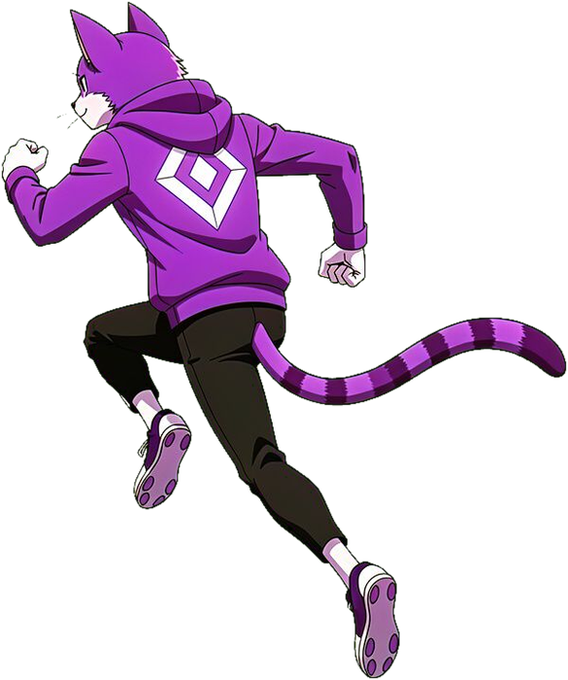
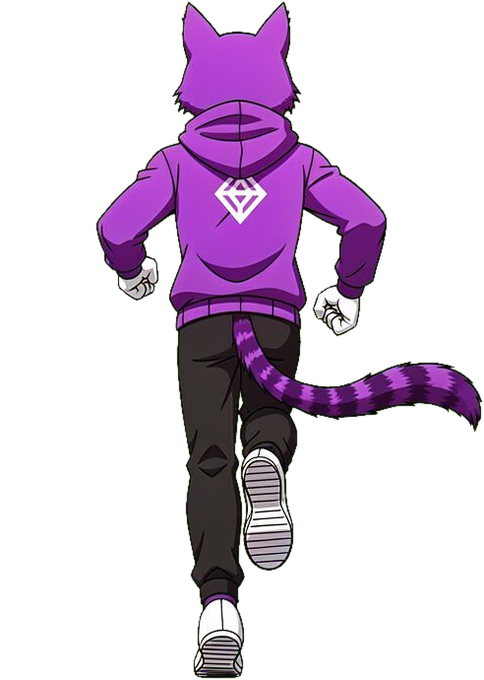
Monshi Run 3D: real 2-frame run cycle + straight-behind pose
Fixes "he's sliding / running sideways":
- New straight-from-behind running sprites (symmetric rear view) so the
  character runs directly away from the camera instead of drifting sideways
- Animated 2-frame run cycle (stride + mirrored opposite stride) swapped on a
  speed-scaled cadence, so the legs actually alternate instead of gliding
- Both characters (Monshi/Toshi) get both stride frames; reduced the body lean
  so he stays upright, banks only when switching lanes

Smoke-tested headless: legs alternate frame-to-frame, straight rear view,
no JS errors.

Claude-Session: https://claude.ai/code/session_014skJoMzzz4GsdHJ96MaCeE

diff --git a/monshi-run.html b/monshi-run.html
@@ -124,8 +124,8 @@ if(!window.THREE){startBestEl.textContent='3D engine failed to load — check co
 
 var LANES=[-2.3,0,2.3];
 var CHAR={
-  monshi:{sprite:'/public/monshi-run/monshi.png', prim:0xA855F7, glow:0xA855F7, boost:0xC084FC, boost2:0xEC4899, name:'MONSHI'},
-  toshi :{sprite:'/public/monshi-run/toshi.png',  prim:0x3B82F6, glow:0x3B82F6, boost:0x60A5FA, boost2:0x22D3EE, name:'TOSHI'}
+  monshi:{frames:['/public/monshi-run/monshi.png','/public/monshi-run/monshi_b.png'], prim:0xA855F7, glow:0xA855F7, boost:0xC084FC, boost2:0xEC4899, name:'MONSHI'},
+  toshi :{frames:['/public/monshi-run/toshi.png','/public/monshi-run/toshi_b.png'],   prim:0x3B82F6, glow:0x3B82F6, boost:0x60A5FA, boost2:0x22D3EE, name:'TOSHI'}
 };
 var SUPA='https://cuqhqcmrgpdjlhyqztnc.supabase.co', SKEY='sb_publishable_nu-E2mvgdQ0l1DsSsOswWA_ma2RbV4z';
 var $=function(id){return document.getElementById(id);};
@@ -155,8 +155,9 @@ var flameTex=softTex([[0,'#ffffff'],[.3,'#ffffffcc'],[.65,'#ffffff55'],[1,'#ffff
 var glowTex =softTex([[0,'#ffffff'],[.4,'#ffffffaa'],[1,'#ffffff00']]);
 var texLoader=new THREE.TextureLoader();
 var coinTex=texLoader.load('/public/monshi-run/monad-coin.png');
-var charTex={monshi:texLoader.load(CHAR.monshi.sprite), toshi:texLoader.load(CHAR.toshi.sprite)};
-charTex.monshi.anisotropy=charTex.toshi.anisotropy=4;
+var FRAMES={monshi:[],toshi:[]};
+['monshi','toshi'].forEach(function(ch){CHAR[ch].frames.forEach(function(src){var t=texLoader.load(src);t.anisotropy=4;FRAMES[ch].push(t);});});
+var curFrames=FRAMES.monshi, frameIdx=0;
 
 // ── world container (curve applies here) ──
 var world=new THREE.Group(); scene.add(world);
@@ -210,7 +211,7 @@ starGeo.setAttribute('position',new THREE.Float32BufferAttribute(sv,3));
 scene.add(new THREE.Points(starGeo,new THREE.PointsMaterial({color:0x9d6bff,size:.4,transparent:true,opacity:.7})));
 
 // ── player (back-view billboard) ──
-var player=new THREE.Sprite(new THREE.SpriteMaterial({map:charTex.monshi,transparent:true}));
+var player=new THREE.Sprite(new THREE.SpriteMaterial({map:FRAMES.monshi[0],transparent:true}));
 player.scale.set(2.2,2.2,1); player.position.set(0,1.45,3.2); scene.add(player);
 var shadow=new THREE.Mesh(new THREE.CircleGeometry(0.9,20),new THREE.MeshBasicMaterial({color:0x000000,transparent:true,opacity:.4}));
 shadow.rotation.x=-Math.PI/2; scene.add(shadow);
@@ -261,7 +262,7 @@ function applyTheme(){
   document.documentElement.style.setProperty('--prim','#'+theme.prim.toString(16).padStart(6,'0'));
   document.documentElement.style.setProperty('--glow','#'+theme.glow.toString(16).padStart(6,'0'));
   document.documentElement.style.setProperty('--acc','rgba('+[(theme.prim>>16)&255,(theme.prim>>8)&255,theme.prim&255].join(',')+',.45)');
-  player.material.map=charTex[selChar];
+  curFrames=FRAMES[selChar]; frameIdx=0; player.material.map=curFrames[0]; player.material.needsUpdate=true;
   glowLight.color.setHex(theme.prim);
   coins.forEach(function(c){c.userData.halo.material.color.setHex(theme.prim);});
 }
@@ -450,11 +451,18 @@ function tick(){
   player.position.x+=(targetX-player.position.x)*Math.min(1,dt*14);
   if(!onGround){jumpV-=27*dt;jumpY+=jumpV*dt;if(jumpY<=0){jumpY=0;jumpV=0;onGround=true;}}
   player.position.y=1.45+jumpY;
-  // run bob + lean
+  // run-cycle: swap stride frames + subtle bob; bank only when switching lanes
   runT+=dt*(G.speed*0.5);
-  if(onGround){player.position.y+=Math.abs(Math.sin(runT))*0.12; player.material.rotation=Math.sin(runT)*0.04+(targetX-player.position.x)*0.06;}
-  else{player.material.rotation=-0.12;}
-  player.scale.set(2.2,2.2+Math.sin(runT)*0.05,1);
+  if(onGround){
+    player.position.y+=Math.abs(Math.sin(runT*2))*0.1;
+    player.material.rotation=(targetX-player.position.x)*0.05;
+    var idx=Math.floor(runT*1.9)%2;
+    if(idx!==frameIdx){frameIdx=idx;player.material.map=curFrames[idx];player.material.needsUpdate=true;}
+  } else {
+    player.material.rotation=-0.08;
+    if(frameIdx!==0){frameIdx=0;player.material.map=curFrames[0];player.material.needsUpdate=true;}
+  }
+  player.scale.set(2.2,2.2+Math.sin(runT*2)*0.04,1);
   // invuln flicker
   if(G.invuln>0){G.invuln-=dt;player.material.opacity=(Math.floor(t*14)%2)?0.35:1;}else player.material.opacity=1;
   // overdrive
